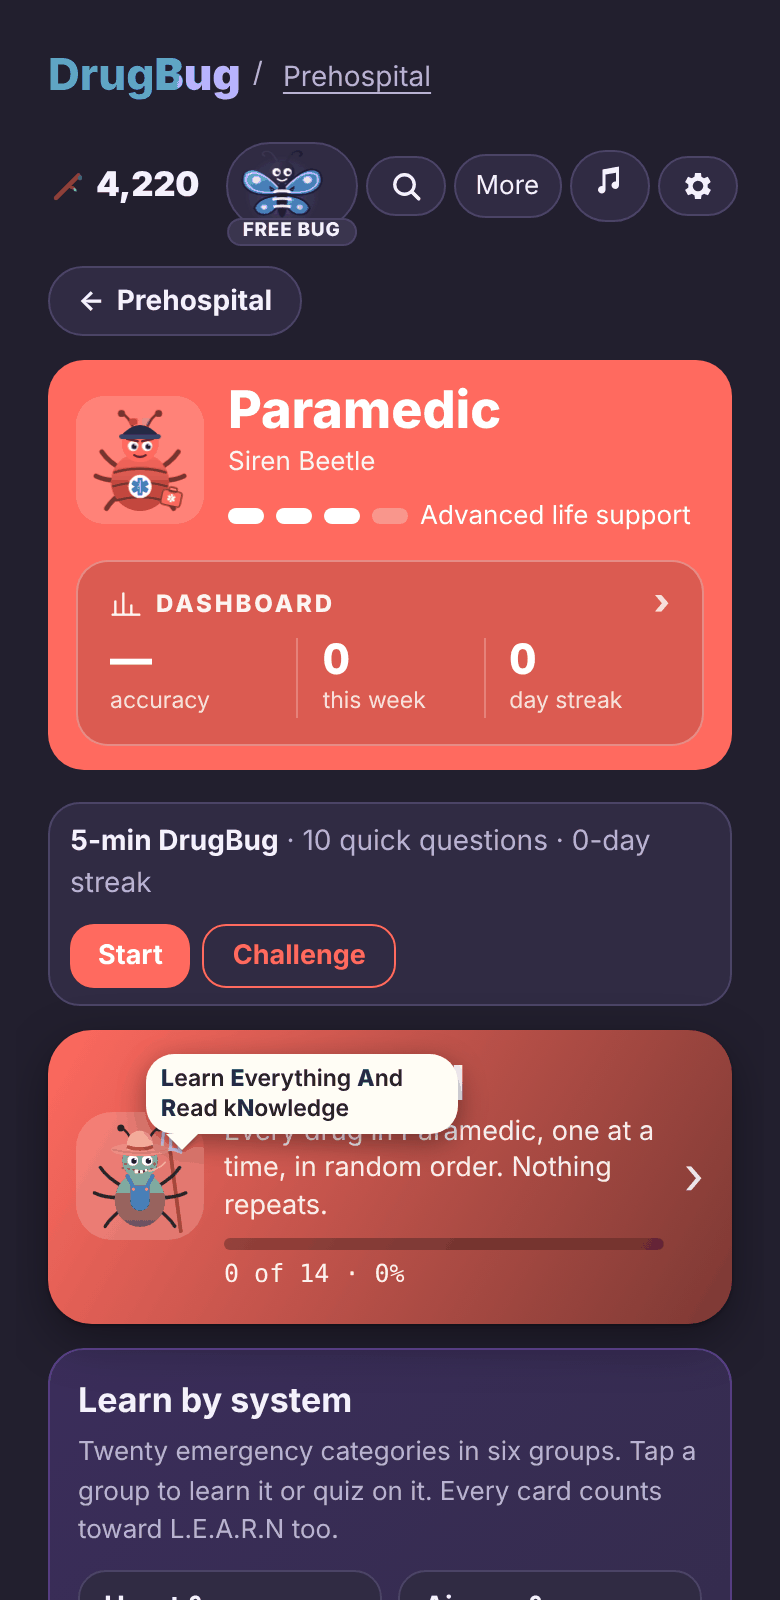
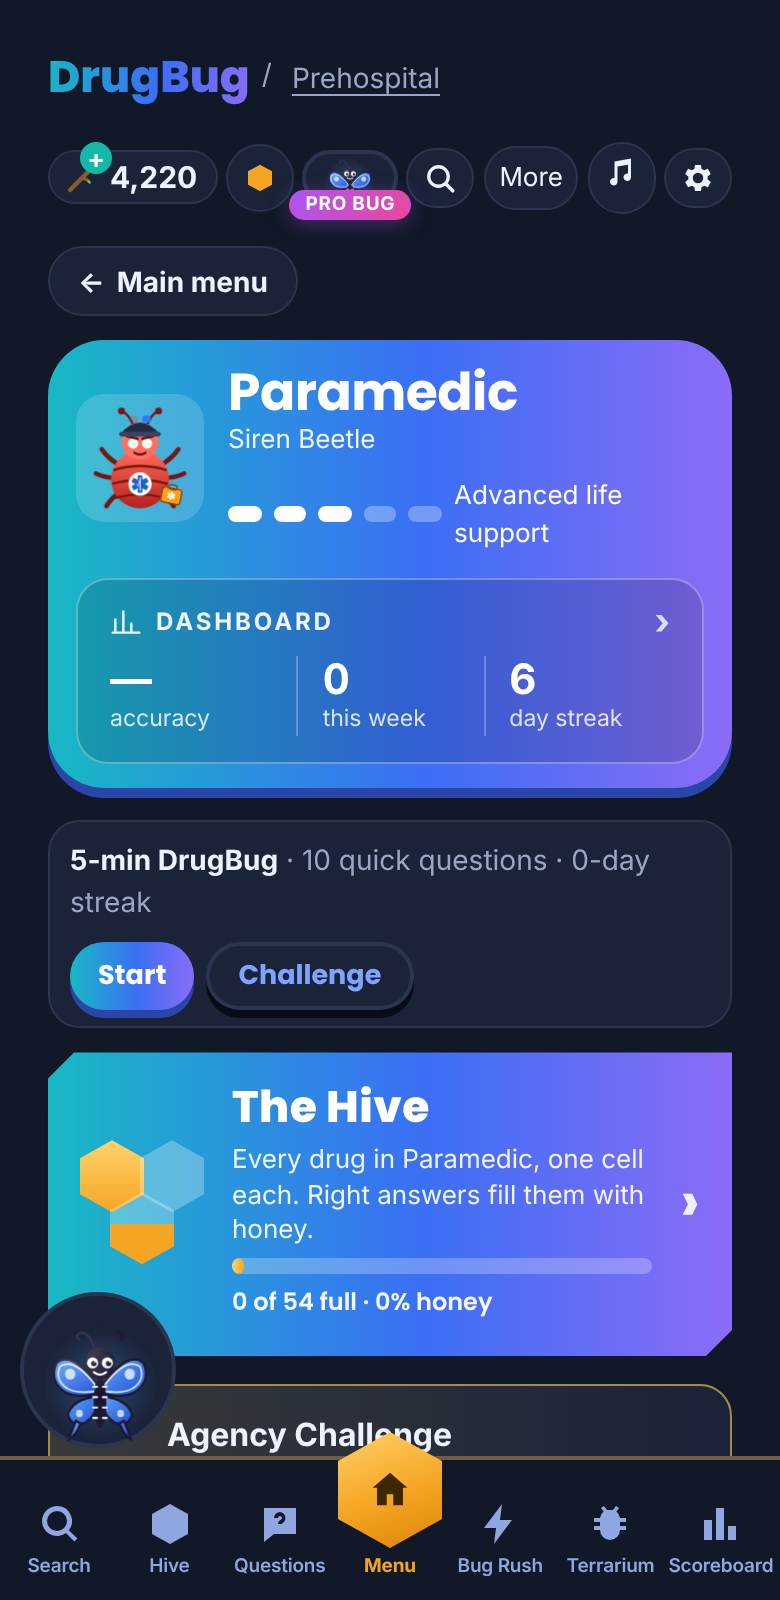
Homepage: new screenshots of the Hive look

diff --git a/index.html b/index.html
@@ -261,7 +261,7 @@ footer .flinks{margin-top:10px}
 </section>
 
 
-<section class="adfoldable shots" aria-label="Screenshots"><figure><img src="shot2-terrarium.png" alt="Tap a bubble to pick your bug" loading="lazy" width="390" height="800"><figcaption>Tap a bubble to pick your bug</figcaption></figure><figure><img src="shot2-wardrobe.png" alt="Dress it up: 146 items fit every bug" loading="lazy" width="390" height="800"><figcaption>Dress it up: 146 items fit every bug</figcaption></figure><figure><img src="shot2-menu.png" alt="Every level has its own menu and bug" loading="lazy" width="390" height="800"><figcaption>Every level has its own menu and bug</figcaption></figure><figure><img src="shot2-systems.png" alt="Meds by system, each with its own quiz" loading="lazy" width="390" height="800"><figcaption>Meds by system, each with its own quiz</figcaption></figure><figure><img src="shot2-calls.png" alt="Big Calls: stroke, STEMI, sepsis, trauma" loading="lazy" width="390" height="800"><figcaption>Big Calls: stroke, STEMI, sepsis, trauma</figcaption></figure><figure><img src="shot2-anatomy.png" alt="Anatomy you can turn and tap" loading="lazy" width="390" height="800"><figcaption>Anatomy you can turn and tap</figcaption></figure><figure><img src="shot2-drug.png" alt="Every drug, in plain language" loading="lazy" width="390" height="800"><figcaption>Every drug, in plain language</figcaption></figure><figure><img src="shot2-quiz.png" alt="Questions at your level" loading="lazy" width="390" height="800"><figcaption>Questions at your level</figcaption></figure></section>
+<section class="adfoldable shots" aria-label="Screenshots"><figure><img src="shot2-terrarium.png?v=1120" alt="Tap a bubble to pick your bug" loading="lazy" width="390" height="800"><figcaption>Tap a bubble to pick your bug</figcaption></figure><figure><img src="shot2-wardrobe.png?v=1120" alt="Dress it up: 146 items fit every bug" loading="lazy" width="390" height="800"><figcaption>Dress it up: 146 items fit every bug</figcaption></figure><figure><img src="shot2-menu.png?v=1120" alt="Every level has its own menu and bug" loading="lazy" width="390" height="800"><figcaption>Every level has its own menu and bug</figcaption></figure><figure><img src="shot2-systems.png?v=1120" alt="The Hive: every drug on your level in one honeycomb" loading="lazy" width="390" height="800"><figcaption>The Hive: every drug on your level in one honeycomb</figcaption></figure><figure><img src="shot2-calls.png?v=1120" alt="Bug Rush: timed calls with a live ventilator and monitors" loading="lazy" width="390" height="800"><figcaption>Bug Rush: timed calls with a live ventilator and monitors</figcaption></figure><figure><img src="shot2-anatomy.png?v=1120" alt="Anatomy you can turn and tap" loading="lazy" width="390" height="800"><figcaption>Anatomy you can turn and tap</figcaption></figure><figure><img src="shot2-drug.png?v=1120" alt="Every drug, in plain language" loading="lazy" width="390" height="800"><figcaption>Every drug, in plain language</figcaption></figure><figure><img src="shot2-quiz.png?v=1120" alt="Questions at your level" loading="lazy" width="390" height="800"><figcaption>Questions at your level</figcaption></figure></section>
 
 <div class="grid"><div class="card"><h3>BugDex</h3><p>All 2,000+ medications in one place, explained in plain language, with drug families compared side by side and illicit and street drug education.</p></div><div class="card"><h3>Prehospital</h3><p>EMT, AEMT, Paramedic and Flight Paramedic scopes, plus Community Paramedic, blood products and hemodynamics.</p></div><div class="card"><h3>Nursing</h3><p>CNA, LVN/LPN, RN and Flight Nurse, with specialty units from ICU and ER to NICU and L&amp;D.</p></div><div class="card"><h3>Medical School</h3><p>Mechanisms to management, with advanced labs for Step 1-style, Step 2 CK-style and Step 3-style study.</p></div><div class="card"><h3>Imaging</h3><p>X-ray, CT, MRI, nuclear medicine and IR: contrast agents, reactions, eGFR and radiopharmaceuticals.</p></div><div class="card"><h3>Allied Health</h3><p>Mental health, dietitians, respiratory therapists, PT/OT, speech-language pathology, surgical and anesthesia technologists, dental hygiene, phlebotomy and EKG technicians, each with its own scope, study guide and questions.</p></div><div class="card"><h3>Questions at your level</h3><p>Every question carries a one-to-four star difficulty tied to your role, so a CNA is not answering flight questions and a flight nurse is not answering CNA ones. DrugBug tracks the ones you have already done and can serve only the ones you have not seen.</p></div><div class="card"><h3>Exam prep</h3><p>NREMT-style, NCLEX-style, Step-style and Registry-style questions: single answer, select-all and put-in-priority-order questions, Exam mode, weak-spot drills and a test-day countdown with a daily goal.</p></div><div class="card"><h3>My List</h3><p>Save the drugs you are studying, then quiz yourself on them or print their study cards.</p></div><div class="card"><h3>Compounds and probiotics</h3><p>The interesting compounds in vegetables, fruits and vitamins, on flip cards with a Surprise me button, plus probiotics.</p></div><div class="card"><h3>The Wormhole and the Disease Lab</h3><p>Go down the wormhole on any drug, or step into the Disease Lab on 285 conditions: where it came from and how it works inside you, from the cell to each organ, with the subtypes of each condition broken out.</p></div><div class="card"><h3>Study</h3><p>Questions, flashcards, Brain Games and safety drills, plus Scenarios with Megacode: a live monitor and 24 cases.</p></div><div class="card"><h3>3D molecules</h3><p>See the chemical structure of hundreds of drugs, then tap it to spin a 3D model. Turn the hydrogens on or off and zoom in close.</p></div><div class="card"><h3>Grow your bug</h3><p>Earn sticks for every right answer and build your Terrarium of 150+ bugs, faces and gear.</p></div><div class="card"><h3>The bugs are alive</h3><p>Every bug watches you: their eyes follow your cursor around the page. Each level arrives in its own way, too — the Flight Paramedic and the Flight Nurse lift off under a spinning rotor, with the sound to match.</p></div></div>
 
